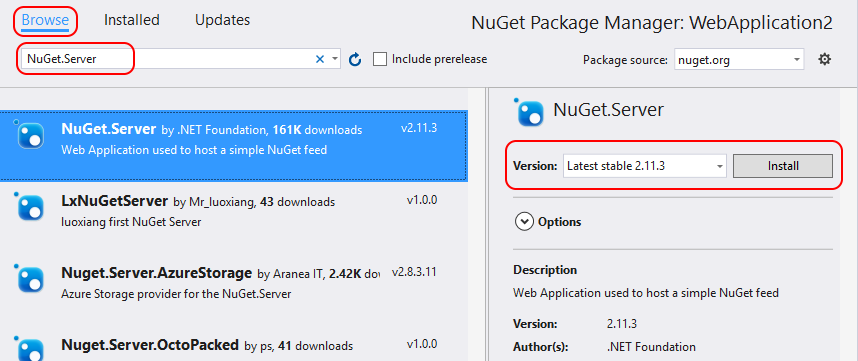
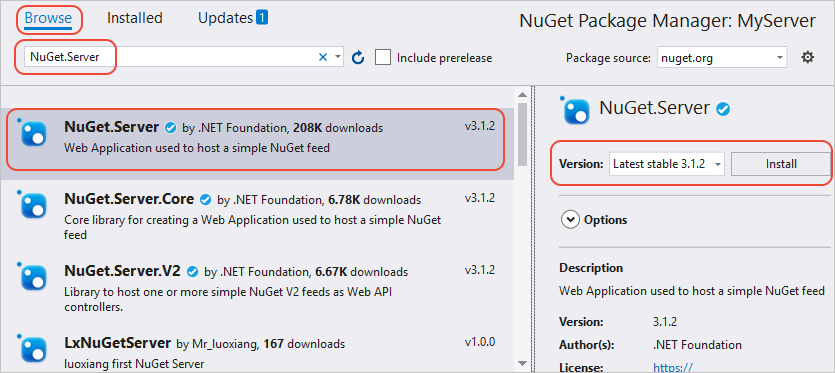
Updates to NuGet.Server

diff --git a/docs/hosting-packages/NuGet-Server.md b/docs/hosting-packages/NuGet-Server.md
@@ -3,7 +3,7 @@ title: Using NuGet.Server to Host NuGet Feeds | Microsoft Docs
 author: kraigb
 ms.author: kraigb
 manager: ghogen
-ms.date: 08/25/2017
+ms.date: 03/13/2018
 ms.topic: article
 ms.prod: nuget
 ms.technology: null
@@ -24,28 +24,29 @@ NuGet.Server is a package provided by the .NET Foundation that creates an ASP.NE
 
 The following sections walk through this process in detail, using C#.
 
+If you have further questions about NuGet.Server, create an issue on [https://github.com/nuget/NuGetGallery/issues](https://github.com/nuget/NuGetGallery/issues).
+
 ## Create and deploy an ASP.NET Web application with NuGet.Server
 
-1. In Visual Studio, select **File > New > Project**, set the target framework for .NET Framework 4.6 (see below), search for "ASP.NET", and select the **ASP.NET Web Application (.NET Framework)** template for C#.
+1. In Visual Studio, select **File > New > Project**, search for "ASP.NET", select the **ASP.NET Web Application (.NET Framework)** template for C#, and set **Framework** to ".NET Framework 4.6":
 
-    ![Setting .NET Framework target to 4.6](media/Hosting_01-NuGet.Server-Set4.6.png)
+    ![Setting the target framework for a new project](media/Hosting_01-NuGet.Server-Set4.6.png)
 
-1. Give the application a suitable name *other* than NuGet.Server, select OK, and in the next dialog select the **Empty** template and select OK.
+1. Give the application a suitable name *other* than NuGet.Server, select OK, and in the next dialog select the **Empty** template, then select **OK**.
 
-1. Right-click the project, select **Manage NuGet Packages**, and in the Package Manager UI search and install the latest version of the NuGet.Server package if you're targeting .NET Framework 4.6. (You can also install it from the Package Manager Console with `Install-Package NuGet.Server`.)
+1. Right-click the project, select **Manage NuGet Packages**.
+
+1. In the Package Manager UI, select the **Browse** tab, then search and install the latest version of the NuGet.Server package if you're targeting .NET Framework 4.6. (You can also install it from the Package Manager Console with `Install-Package NuGet.Server`.) Accept the license terms if prompted.
 
     ![Installing the NuGet.Server package](media/Hosting_02-NuGet.Server-Package.png)
 
-    > [!Important]
-    > If your web application targets .NET Framework 4.5.2, you must install NuGet Server **2.10.3** instead.
+1. Installing NuGet.Server converts the empty Web application into a package source. It installs a variety of other packages, creates a `Packages` folder in the application, and overwrites `web.config` to include additional settings (see the comments in that file for details).
 
-1. Installing NuGet.Server converts the empty Web application into a package source. It creates a `Packages` folder in the application and overwrites `web.config` to include additional settings (see the comments in that file for details).
-
-1. To make packages available in the feed when you publish the application to a server, add their `.nupkg` files to the `Packages` folder in Visual Studio, then set their **Build Action** to **Content** and **Copy to Output Directory** to **Copy always**:
+1. To make packages available in the feed when you publish the application to a server, add each `.nupkg` files to the `Packages` folder in Visual Studio, then set each one's **Build Action** to **Content** and **Copy to Output Directory** to **Copy always**:
 
     ![Copying packages to the Packages folder in the project](media/Hosting_03-NuGet.Server-Package-Folder.png)
 
-1. Run the site locally in Visual Studio (without debugging, that is Ctrl+F5). The home page provides the package feed URLs:
+1. Run the site locally in Visual Studio (using **Debug > Start Without Debugging** or Ctrl+F5). The home page provides the package feed URLs:
 
     ![Default home page for an application with NuGet.Server](media/Hosting_04-NuGet.Server-FeedHomePage.png)
 
@@ -54,6 +55,7 @@ The following sections walk through this process in detail, using C#.
 1. The first time you run the application, NuGet.Server restructures the `Packages` folder to contain a folder for each package. This matches the [local storage layout](http://blog.nuget.org/20151118/nuget-3.3.html#folder-based-repository-commands) introduced with NuGet 3.3 to improve performance. When adding more packages, continue to follow this structure.
 
 1. Once you've tested your local deployment, deploy the application to any other internal or external site as needed.
+
 1. Once deployed to `http://<domain>`, the URL that you use for the package source will be `http://<domain>/nuget`.
 
 ## Configuring the Packages folder
@@ -98,3 +100,11 @@ To enable this capability, set the `apiKey` to a value (ideally a strong passwor
 ```
 
 If your server is already secured or you do not otherwise require an API key (for example, when using a private server on a local team network), you can set `requireApiKey` to `false`. All users with access to the server can then push or delete packages.
+
+## Removing packages from the feed
+
+With NuGet.Server, the `nuget delete` command removes a package from the repository. If you want to change the behavior to delist the package instead (leaving it available for package restore), change the `enableDelisting` key in `web.config` to true.
+
+## NuGet.Server support
+
+For additional help using NuGet.Server, create an issue on [https://github.com/nuget/NuGetGallery/issues](https://github.com/nuget/NuGetGallery/issues).

diff --git a/docs/quickstart/includes/publish-errors.md b/docs/quickstart/includes/publish-errors.md
@@ -3,7 +3,8 @@ Errors from the `push` command typically indicate the problem. For example, you 
 You also see errors when trying to publish a package using an identifier that already exists on the host. The name "AppLogger", for example, already exists. In such a case, the `push` command gives the following error:
 
 ```output
-Response status code does not indicate success: 403 (The specified API key is invalid, has expired, or does not have permission to access the specified package.).
+Response status code does not indicate success: 403 (The specified API key is invalid,
+has expired, or does not have permission to access the specified package.).
 ```
 
 If you're using a valid API key that you just created, then this message indicates a naming conflict, which isn't entirely clear from the "permission" part of the error. Change the package identifier, rebuild the project, recreate the `.nupkg` file, and retry the `push` command.
